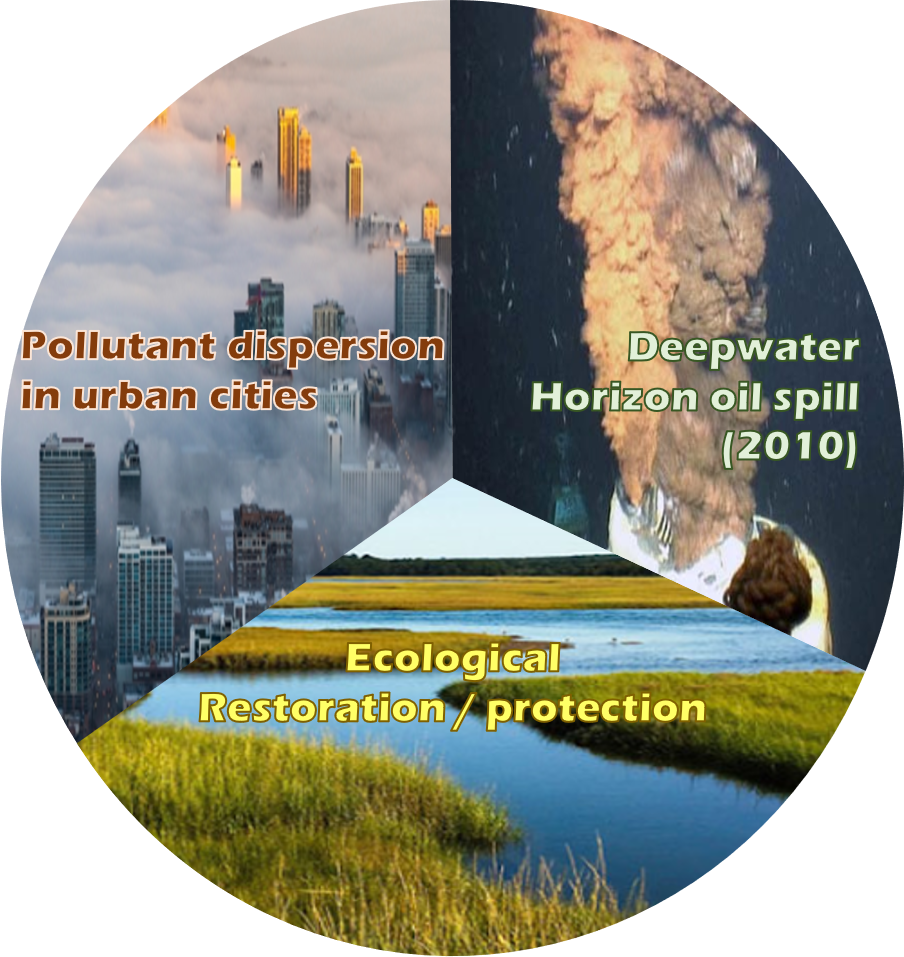
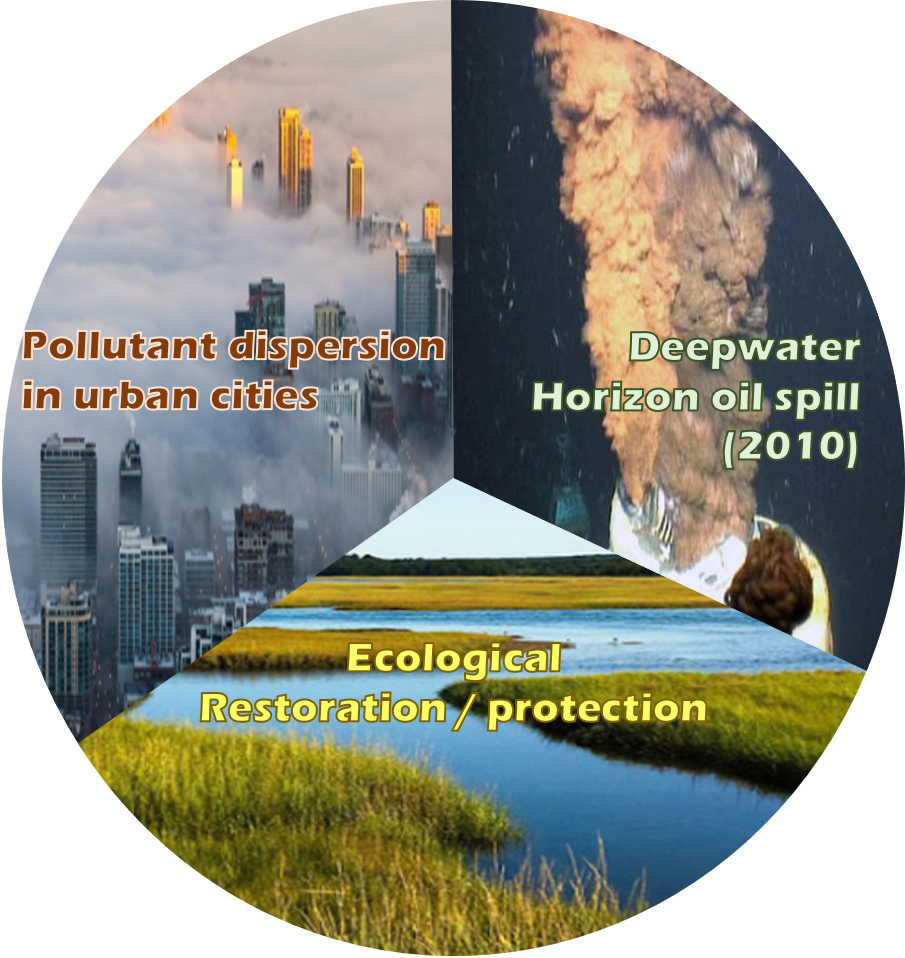
Build website

diff --git a/project/multi-body-turbulent-flow/index.html b/project/multi-body-turbulent-flow/index.html
@@ -749,7 +749,7 @@
 
 <div class="article-header article-container featured-image-wrapper mt-4 mb-4" style="max-width: 720px; max-height: 762px;">
   <div style="position: relative">
-    <img src="/project/multi-body-turbulent-flow/featured_hu228697236a5946048cb3f2c69fc06dde_1551096_720x0_resize_lanczos_2.png" alt="" class="featured-image">
+    <img src="/project/multi-body-turbulent-flow/featured_huc033155ae976b75c7df7bb3800c42e6f_950515_720x0_resize_lanczos_2.png" alt="" class="featured-image">
     
   </div>
 </div>

diff --git a/index.html b/index.html
@@ -1471,7 +1471,7 @@
     
     
     <a href="/project/multi-body-turbulent-flow/"  class="card-image hover-overlay">
-      <img src="/project/multi-body-turbulent-flow/featured_hu228697236a5946048cb3f2c69fc06dde_1551096_550x0_resize_q90_lanczos_2.png" alt="" class="img-responsive">
+      <img src="/project/multi-body-turbulent-flow/featured_huc033155ae976b75c7df7bb3800c42e6f_950515_550x0_resize_q90_lanczos_2.png" alt="" class="img-responsive">
     </a>
     
     <div class="card-text">
